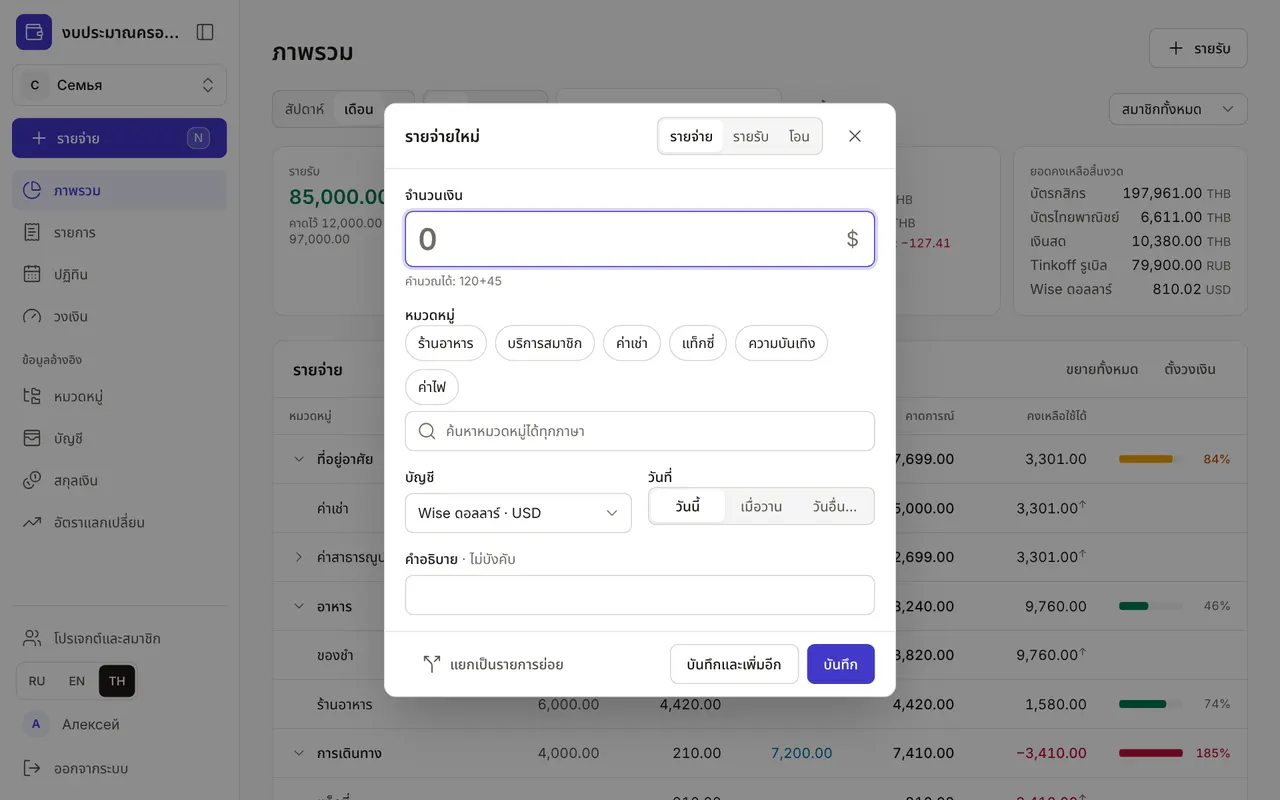
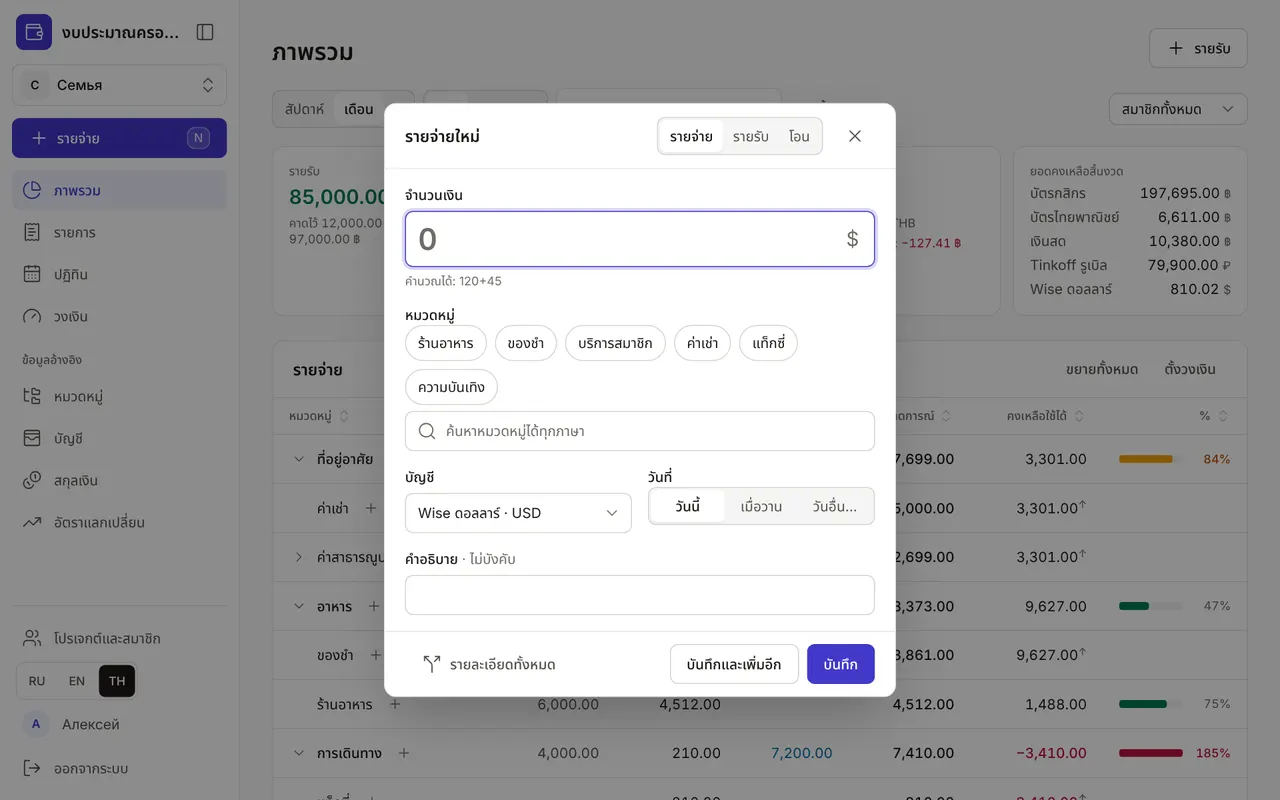
Сайт: «Что нового» и гайд «Операции» — чек с ценами; демо-чек 7-Eleven
- releases/next: «Чек с ценами» и «Ошибки в операциях — на вашем языке»
  на трёх языках.
- Гайд «Операции»: «Подробная карточка», «× цена», «Скидка на чек», чек в
  ленте по категориям; новые скриншоты ru/en/th. В «Первом бюджете» —
  новое название кнопки и скриншот быстрого ввода.
- Демо: названия позиций как на чеке (по-английски), чек — 12-го числа.

Claude-Session: https://claude.ai/code/session_011Vya3UGpPLVi4ykdUNYzKt

diff --git a/crates/app/src/seed.rs b/crates/app/src/seed.rs
@@ -367,8 +367,9 @@ async fn fill_family(s: &Services, p: Uuid, me: Uuid, anna: Uuid) -> AppResult<(
             lines: vec![("FOOD_GROCERIES", "1640", Some("овощи, мясо")), ("HOUSEHOLD", "385", Some("средства для стирки")), ("FOOD_CAFE", "120", Some("кофе"))], plan: None, by: anna }).await?;
         tx(s, p, Tx { date: day(back, 4), account: "CASH", kind: "EXPENSE", desc: Some(("Grab до офиса", ru)), tr: (None, None, None), lines: vec![("TRANSPORT_TAXI", "210", None)], plan: None, by: me }).await?;
         // Чек с ценами: количество × цена − скидка; бананы — на вес.
-        receipt(s, p, day(back, 5), ("Завтрак в 7-Eleven", ru), (None, Some("Breakfast at 7-Eleven"), Some("อาหารเช้าที่เซเว่น")),
-            &[("FOOD_GROCERIES", "Вода 1,5 л", "1", "pcs", "14", "0"), ("FOOD_CAFE", "Кофе латте", "1", "pcs", "45", "0"), ("FOOD_CAFE", "Круассан", "2", "pcs", "25", "3"), ("FOOD_GROCERIES", "Бананы", "0.45", "kg", "60", "0")], me).await?;
+        // Названия — как на чеке (по-английски), их не переводят.
+        receipt(s, p, day(back, 12), ("Завтрак в 7-Eleven", ru), (None, Some("Breakfast at 7-Eleven"), Some("อาหารเช้าที่เซเว่น")),
+            &[("FOOD_GROCERIES", "Water 1.5 L", "1", "pcs", "14", "0"), ("FOOD_CAFE", "Latte", "1", "pcs", "45", "0"), ("FOOD_CAFE", "Croissant", "2", "pcs", "25", "3"), ("FOOD_GROCERIES", "Bananas", "0.45", "kg", "60", "0")], me).await?;
         // Обмен через приложение: списано 20 050 ₽ (из них 50 ₽ комиссия), зачислено по курсу хуже справочного.
         let got = if back == 1 { "7640" } else { "7280" };
         transfer(s, p, Transfer { date: day(back, 2), from: "TINKOFF_RUB", to: "CARD_KBANK", amount: "20050", to_amount: Some(got), fee: Some(("FEES", "50")),

diff --git a/site/content/guides/transactions/index.th.md b/site/content/guides/transactions/index.th.md
@@ -24,9 +24,11 @@ level = "beginner"
 
 ## 2. ใบเสร็จที่มีหลายรายการ
 
-ใบเสร็จเดียวมีทั้งของชำ น้ำยาซักผ้า และกาแฟ? กด "แยกเป็นรายการย่อย" ในหน้าต่าง แบบฟอร์มเต็มจะเปิดขึ้น และจำนวนเงินที่ใส่ไว้จะเป็นรายการย่อยแรก แต่ละรายการย่อยมีหมวด จำนวนเงิน และ "หมายเหตุ" ของตัวเอง "+ รายการย่อย" เพิ่มแถว และ "รวม" คำนวณให้เอง ติ๊ก "คืนเงิน" เมื่อร้านคืนเงินให้ ยอดจะลดยอดจริงของหมวด
+ใบเสร็จเดียวมีทั้งของชำ กาแฟ และขนม? กด "รายละเอียดทั้งหมด" ในหน้าต่าง แบบฟอร์มเต็มจะเปิดขึ้น และจำนวนเงินที่ใส่ไว้จะเป็นรายการย่อยแรก แต่ละรายการย่อยมีหมวด จำนวนเงิน และ "ชื่อรายการ" ตามใบเสร็จ "เพิ่มรายการ" เพิ่มแถว และ "รวม" คำนวณให้เอง ติ๊ก "คืนเงิน" เมื่อร้านคืนเงินให้ ยอดจะลดยอดจริงของหมวด
 
-![แบบฟอร์มเต็ม: ใบเสร็จซูเปอร์มาร์เก็ตสามรายการ](split.th.webp)
+ปุ่ม "× ราคา" เปิด "จำนวน" "หน่วย" (ชิ้น กก. ล. ก.) "ราคา" และ "ส่วนลด" ใต้รายการ แล้วแอปจะคำนวณยอดของรายการให้ เช่น ครัวซองต์ 2 ชิ้น ชิ้นละ 25 ลด 3 ได้ 47 กล้วย 0.45 กก. กิโลละ 60 ได้ 27 ถ้าต้องการใส่ยอดเอง ให้ลบราคาออก ส่วนลดทั้งใบเสร็จอยู่ในส่วน "เพิ่มเติม" ช่อง "ส่วนลดทั้งใบเสร็จ" ส่วนลดจะแบ่งให้แต่ละรายการตามสัดส่วนยอดเงิน
+
+![รายละเอียดทั้งหมด: ใบเสร็จเซเว่นพร้อมราคาและจำนวน](split.th.webp)
 
 "คำอธิบาย" ไม่บังคับ เขียนได้ทั้งสามภาษาและเลือก "ภาษาต้นฉบับ" คำแปลเป็นภาษาอื่นใส่ในส่วน "คำแปลคำอธิบาย" ทุกคนในครอบครัวจึงอ่านรายการเป็นภาษาของตัวเองได้ รายการที่บันทึกแล้วยังมีส่วน "รายการบัญชีคู่" ที่แสดงการบันทึกแบบบัญชีคู่ ไม่ต้องแก้ไขส่วนนี้
 
@@ -43,6 +45,8 @@ level = "beginner"
 หน้า "รายการ" แสดงรายการทั้งเดือนแยกตามวัน ลูกศรใช้เปลี่ยนเดือน ด้านบนคือยอดสรุป: รายรับ รายจ่าย และสุทธิในแต่ละสกุลเงิน ตัวกรองมี บัญชี ประเภท ("รายจ่าย" "รายรับ" "การโอน" "ยอดยกมา") สมาชิกในงบครอบครัว และช่องติ๊ก "คำอธิบายยังไม่มีภาษาของฉัน" สำหรับหารายการที่ต้องแปล
 
 ![รายการทั้งเดือนพร้อมตัวกรองและยอดสรุป](list.th.webp)
+
+ใบเสร็จที่มีหลายรายการจะแสดงตามหมวด: ยอดของหมวด และใต้หมวดคือสินค้าตามลำดับในใบเสร็จ เช่น "Croissant · 2 ชิ้น × 25 − 3 → 47" ถ้าไม่มีราคาจะเป็น "Latte · 45" รายการที่มีรายการย่อยเดียวและไม่มีชื่อจะแสดงเหมือนเดิม
 
 รายการที่ชำระตามแผนในปฏิทินจะมีป้าย "ตามแผน" ป้ายที่มีรหัสภาษาและเครื่องหมายคำถาม เช่น "TH?" หมายความว่าคำอธิบายยังไม่มีคำแปลเป็นภาษาของคุณ
 

diff --git a/site/content/guides/transactions/index.md b/site/content/guides/transactions/index.md
@@ -24,9 +24,11 @@ level = "beginner"
 
 ## 2. Чек из нескольких позиций
 
-В одном чеке продукты, бытовая химия и кофе? Нажмите в окне «Разбить на позиции» — откроется полная форма, а введённая сумма станет первой позицией. У каждой позиции своя категория, сумма и «Уточнение»; «+ позиция» добавляет строку, «Итого» считается само. Галочка «Возврат» нужна, когда деньги вернулись в магазине: суммы уменьшат факт категорий.
+В одном чеке продукты, кофе и выпечка? Нажмите в окне «Подробная карточка» — откроется полная форма, а введённая сумма станет первой позицией. У каждой позиции своя категория, сумма и «Название» — как на чеке; «Добавить позицию» добавляет строку, «Итого» считается само. Галочка «Возврат» нужна, когда деньги вернулись в магазине: суммы уменьшат факт категорий.
 
-![Полная форма: чек из супермаркета на три позиции](split.ru.webp)
+Кнопка «× цена» раскрывает под позицией «Количество», «Единица» (шт, кг, л, г), «Цена» и «Скидка»: сумму позиции приложение посчитает само — два круассана по 25 со скидкой 3 дадут 47, 0,45 кг бананов по 60 — 27. Чтобы ввести сумму вручную, сотрите цену. Скидка на весь чек — в блоке «Ещё», поле «Скидка на чек»: она делится по позициям пропорционально их суммам.
+
+![Подробная карточка: чек из 7-Eleven с ценами и количеством](split.ru.webp)
 
 «Описание» необязательно, его можно написать на любом из трёх языков и указать «Язык оригинала». Переводы на другие языки — в блоке «Переводы описания»: так каждый в семье прочитает операцию на своём языке. У сохранённой операции есть ещё блок «Проводки» — как она записана по двойной записи; трогать его не нужно.
 
@@ -43,6 +45,8 @@ level = "beginner"
 В разделе «Операции» — все операции месяца по дням, стрелки листают месяцы. Сверху итоги: доходы, расходы и итог в каждой валюте. Фильтры: счёт, тип («Расходы», «Доходы», «Переводы», «Начальные остатки»), участник в семейном бюджете и галочка «Описание не на моём языке» — она найдёт операции, которым нужен перевод.
 
 ![Операции за месяц с фильтрами и итогами](list.ru.webp)
+
+Чек из нескольких позиций показан по категориям: сумма категории, а под ней товары в порядке чека — «Croissant · 2 шт × 25 − 3 → 47», без цены — «Latte · 45». Операция из одной позиции без названия выглядит как обычно.
 
 Операции, оплаченные по плану из календаря, отмечены бейджем «по плану». Бейдж с кодом языка и знаком вопроса, например «RU?», значит, что у описания нет перевода на ваш язык.
 

diff --git a/site/content/guides/transactions/index.en.md b/site/content/guides/transactions/index.en.md
@@ -24,9 +24,11 @@ The same window has an "Expense", "Income", "Transfer" switch; the <kbd>I</kbd> 
 
 ## 2. A receipt with several items
 
-Groceries, cleaning products and a coffee on one receipt? Click "Split into items" in the window — the full form opens, and the amount you entered becomes the first item. Each item has its own category, amount and "Note"; "+ item" adds a row and the "Total" adds itself up. Tick "Refund" when a shop gives money back: the amounts reduce the categories' actuals.
+Groceries, a coffee and pastries on one receipt? Click "Full details" in the window — the full form opens, and the amount you entered becomes the first item. Each item has its own category, amount and "Name", as on the receipt; "Add item" adds a row and the "Total" adds itself up. Tick "Refund" when a shop gives money back: the amounts reduce the categories' actuals.
 
-![The full form: a supermarket receipt with three items](split.en.webp)
+The "× price" button opens "Quantity", "Unit" (pcs, kg, l, g), "Price" and "Discount" under the item, and the app works out the item amount: two croissants at 25 with a discount of 3 make 47, 0.45 kg of bananas at 60 makes 27. To type the amount yourself, clear the price. A discount on the whole receipt goes in "More", field "Receipt discount": it is split across the items in proportion to their amounts.
+
+![Full details: a 7-Eleven receipt with prices and quantities](split.en.webp)
 
 The "Description" is optional; write it in any of the three languages and set the "Original language". Translations into the other languages go in "Description translations", so everyone in the family reads the transaction in their own language. A saved transaction also has a "Postings" block showing how it's recorded in double entry; you don't need to touch it.
 
@@ -43,6 +45,8 @@ Did the bank charge a fee? Open "Fee", choose a category and an amount. The fee 
 The "Transactions" section shows all of the month's transactions by day; the arrows switch months. At the top are the totals: income, expenses and net in each currency. Filters: account, type ("Expenses", "Income", "Transfers", "Opening balances"), member in a family budget, and the "Description not in my language" checkbox, which finds transactions that need a translation.
 
 ![A month's transactions with filters and totals](list.en.webp)
+
+A receipt with several items is shown by category: the category total, and under it the goods in receipt order — "Croissant · 2 pcs × 25 − 3 → 47", or "Latte · 45" without a price. A transaction with a single unnamed item looks as usual.
 
 Transactions paid from a calendar plan carry a "planned" badge. A badge with a language code and a question mark, such as "EN?", means the description has no translation into your language.
 

diff --git a/site/content/releases/next/receipt-items.th.md b/site/content/releases/next/receipt-items.th.md
@@ -1,0 +1,11 @@
++++
+title = "ใบเสร็จพร้อมราคา: จำนวน × ราคา − ส่วนลด"
+date = 2026-10-19
+
+[taxonomies]
+topics = ["accounts", "claude"]
+
+[extra]
+change = "new"
++++
+รายการย่อยในใบเสร็จมีชื่อแล้ว และปุ่ม "× ราคา" เปิด "จำนวน" "หน่วย" (ชิ้น กก. ล. ก.) "ราคา" และ "ส่วนลด" แอปจะคำนวณยอดของรายการให้เอง: 2 × 25 − 3 = 47 ในส่วน "เพิ่มเติม" มี "ส่วนลดทั้งใบเสร็จ" ซึ่งแบ่งให้แต่ละรายการ ในหน้ารายการ ใบเสร็จแสดงตามหมวดพร้อมสินค้าใต้แต่ละหมวด ปุ่มในหน้าต่างบันทึกด่วนเปลี่ยนชื่อเป็น "รายละเอียดทั้งหมด" ส่วนการบันทึกด่วนยังเหมือนเดิม: จำนวนเงิน หมวด Enter Claude ผ่าน MCP ก็บันทึกใบเสร็จพร้อมราคาและแก้ไขทีละรายการได้

diff --git a/site/content/releases/next/receipt-items.md b/site/content/releases/next/receipt-items.md
@@ -1,0 +1,11 @@
++++
+title = "Чек с ценами: количество × цена − скидка"
+date = 2026-10-19
+
+[taxonomies]
+topics = ["accounts", "claude"]
+
+[extra]
+change = "new"
++++
+У позиции чека теперь есть название, а кнопка «× цена» открывает «Количество», «Единица» (шт, кг, л, г), «Цена» и «Скидка» — сумму позиции приложение считает само: 2 × 25 − 3 = 47. В блоке «Ещё» — «Скидка на чек», она делится по позициям. В ленте чек показан по категориям с товарами под ними. Кнопка в быстром вводе называется «Подробная карточка», а сам быстрый ввод не изменился: сумма, категория, Enter. Claude через MCP тоже записывает чеки с ценами и правит отдельные позиции.

diff --git a/site/content/releases/next/errors-in-your-language.th.md b/site/content/releases/next/errors-in-your-language.th.md
@@ -1,0 +1,11 @@
++++
+title = "ข้อผิดพลาดของรายการเป็นภาษาของคุณ"
+date = 2026-10-19
+
+[taxonomies]
+topics = ["family", "claude"]
+
+[extra]
+change = "improved"
++++
+ข้อความแจ้งข้อผิดพลาดในฟอร์มรายการและตอนที่ Claude บันทึกรายการ ตอนนี้แสดงเป็นภาษาของหน้าจอ — รัสเซีย อังกฤษ หรือไทย — ไม่ใช่ภาษารัสเซียเสมอไป และแสดงที่รายการย่อยในใบเสร็จที่มีปัญหา ยอดสรุปของเดือนในหน้า "รายการ" นับทุกรายการ แม้รายการที่แสดงจะไม่ครบ

diff --git a/site/content/guides/first-budget/index.th.md b/site/content/guides/first-budget/index.th.md
@@ -18,7 +18,7 @@ level = "beginner"
 
 ![หน้าต่าง "รายจ่ายใหม่": จำนวนเงิน หมวดที่ใช้บ่อย บัญชี และวันที่](quick-expense.th.webp)
 
-ถ้าใบเสร็จเดียวมีทั้งของชำและของใช้ในบ้าน กด "แยกเป็นรายการย่อย" แล้วแต่ละส่วนจะไปอยู่ในหมวดของตัวเอง
+ถ้าใบเสร็จเดียวมีทั้งของชำและของใช้ในบ้าน กด "รายละเอียดทั้งหมด" แล้วแต่ละส่วนจะไปอยู่ในหมวดของตัวเอง
 
 ## 2. เพิ่มบัญชี
 

diff --git a/site/content/releases/next/errors-in-your-language.md b/site/content/releases/next/errors-in-your-language.md
@@ -1,0 +1,11 @@
++++
+title = "Ошибки в операциях — на вашем языке"
+date = 2026-10-19
+
+[taxonomies]
+topics = ["family", "claude"]
+
+[extra]
+change = "improved"
++++
+Сообщения об ошибках в форме операции и при записи через Claude теперь на языке интерфейса — русском, английском или тайском, — а не всегда по-русски, и показываются у той позиции чека, где ошибка. Итоги месяца в «Операциях» считаются по всем операциям, даже если в ленте их показано не все.

diff --git a/site/content/releases/next/receipt-items.en.md b/site/content/releases/next/receipt-items.en.md
@@ -1,0 +1,11 @@
++++
+title = "Receipts with prices: quantity × price − discount"
+date = 2026-10-19
+
+[taxonomies]
+topics = ["accounts", "claude"]
+
+[extra]
+change = "new"
++++
+A receipt item now has a name, and the "× price" button opens "Quantity", "Unit" (pcs, kg, l, g), "Price" and "Discount" — the app works out the item amount itself: 2 × 25 − 3 = 47. "More" holds the "Receipt discount", split across the items. In the list a receipt is shown by category with the goods under each. The quick entry button is now called "Full details", and quick entry itself hasn't changed: amount, category, Enter. Claude can also record receipts with prices over MCP and edit single items.

diff --git a/site/content/guides/first-budget/index.md b/site/content/guides/first-budget/index.md
@@ -18,7 +18,7 @@ level = "beginner"
 
 ![Окно «Новый расход»: сумма, частые категории, счёт и дата](quick-expense.ru.webp)
 
-Если в одном чеке продукты и бытовая химия — нажмите «Разбить на позиции», и каждая часть уйдёт в свою категорию.
+Если в одном чеке продукты и бытовая химия — нажмите «Подробная карточка», и каждая часть уйдёт в свою категорию.
 
 ## 2. Добавьте счета
 

diff --git a/site/content/releases/next/errors-in-your-language.en.md b/site/content/releases/next/errors-in-your-language.en.md
@@ -1,0 +1,11 @@
++++
+title = "Transaction errors in your language"
+date = 2026-10-19
+
+[taxonomies]
+topics = ["family", "claude"]
+
+[extra]
+change = "improved"
++++
+Error messages in the transaction form and when Claude records a transaction now come in the interface language — Russian, English or Thai — instead of always in Russian, and appear next to the receipt item that has the problem. The month totals in "Transactions" count every transaction, even when the list doesn't show them all.
